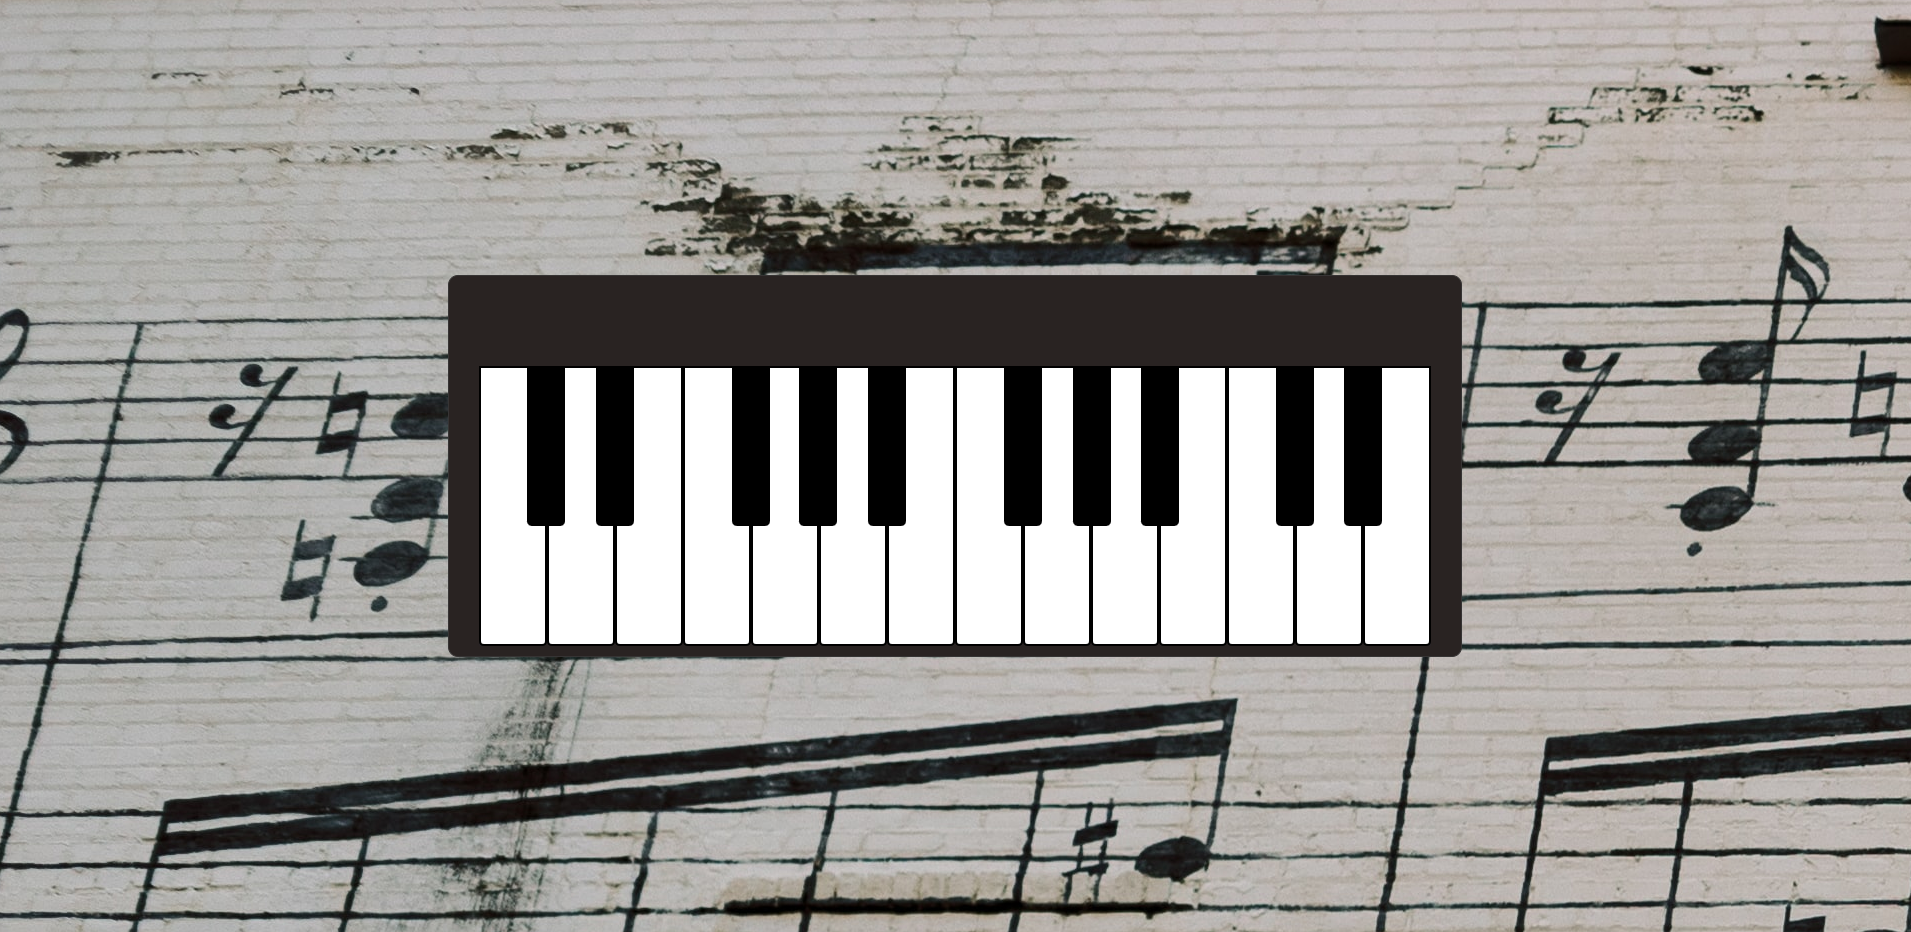
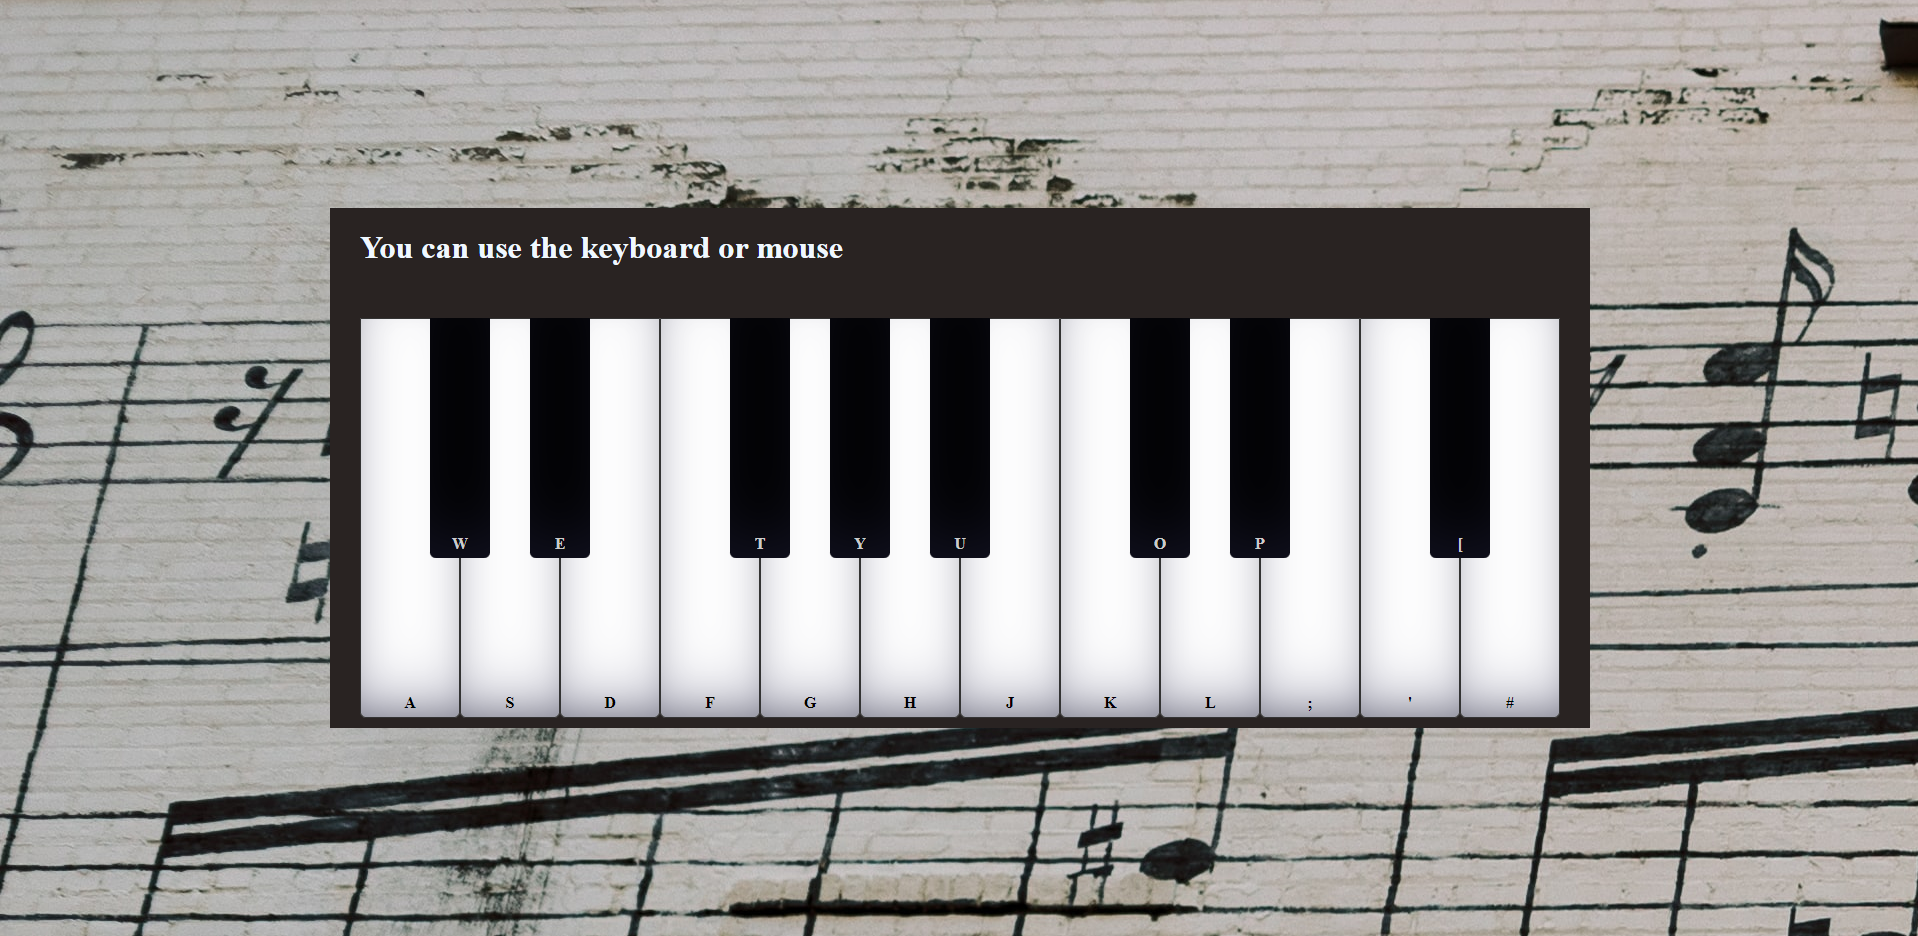
up2
update2

diff --git a/index.html b/index.html
@@ -11,7 +11,7 @@
    
     
     <div class="piano">
-        <h1 class="info">You can use the keyboard ore the mouse</h1>
+        <h1 class="info">You can use the keyboard or mouse</h1>
         <div data-note="C" class="key white text">A</div>
         <div data-note="Db" class="key black text">W</div>
         <div data-note="D" class="key white text">S</div>
